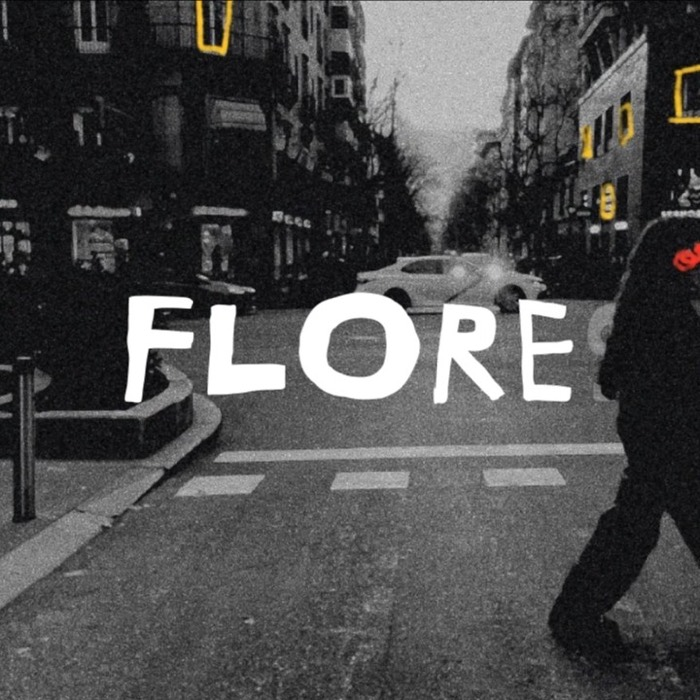
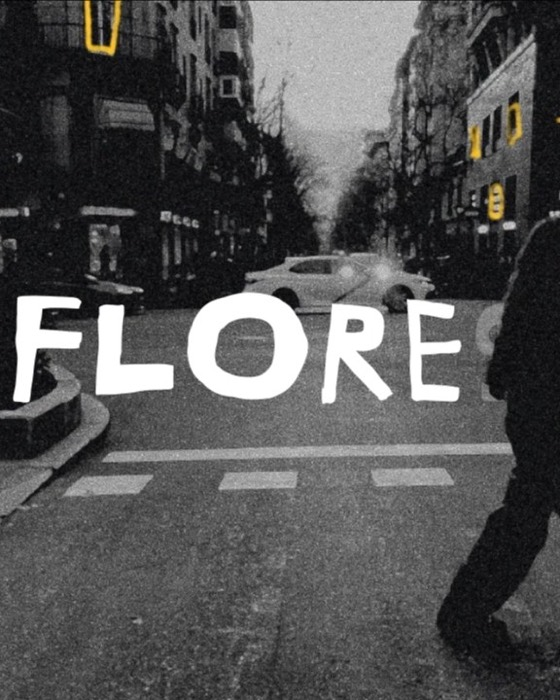
Flores: portada en 4:5 con la palabra más a la izquierda

diff --git a/lab.html b/lab.html
@@ -22,7 +22,7 @@
   <link rel="preconnect" href="https://freight.cargo.site">
   <link rel="stylesheet" href="https://unpkg.com/lenis@1.1.13/dist/lenis.css">
   <!-- ?v= obliga al navegador a descargar la versión nueva cuando cambia (súbelo en cada cambio) -->
-  <link rel="stylesheet" href="css/style.css?v=2026111302">
+  <link rel="stylesheet" href="css/style.css?v=2026111303">
 
   <!-- Tema: claro por defecto, o el que se haya elegido antes -->
   <script>
@@ -56,15 +56,15 @@
   <!-- ============ BARRA SUPERIOR ============ -->
   <header class="topbar">
     <div class="topbar__side">
-      <a class="logo" href="index.html?v=2026111302" aria-label="Ayleeeeta, volver al inicio">
+      <a class="logo" href="index.html?v=2026111303" aria-label="Ayleeeeta, volver al inicio">
         <span>A</span><span>y</span><span>l</span><span class="e">e</span><span class="e e-extra">e</span><span class="e e-extra">e</span><span class="e e-extra">e</span><span>t</span><span>a</span>
       </a>
     </div>
     <nav class="topnav tiny" aria-label="Páginas">
-      <a href="index.html?v=2026111302">Proyectos</a>
-      <a href="sobre-mi.html?v=2026111302">Sobre mí</a>
-      <a href="lab.html?v=2026111302" class="is-active" aria-current="page">Archivo</a>
-      <a href="index.html?v=2026111302#contacto">Contacto</a>
+      <a href="index.html?v=2026111303">Proyectos</a>
+      <a href="sobre-mi.html?v=2026111303">Sobre mí</a>
+      <a href="lab.html?v=2026111303" class="is-active" aria-current="page">Archivo</a>
+      <a href="index.html?v=2026111303#contacto">Contacto</a>
     </nav>
     <div class="topbar__right tiny" data-cursor-hide>
       <button class="round-btn" id="sound-toggle" type="button" aria-label="Sonido (próximamente)" aria-pressed="false">
@@ -80,10 +80,10 @@
   <!-- ============ MENÚ EN PASTILLA (móvil) ============ -->
   <nav class="pill" aria-label="Páginas" style="--i: 2">
     <span class="pill__indicator" aria-hidden="true"></span>
-    <a href="index.html?v=2026111302" class="pill__link">Proyectos</a>
-    <a href="sobre-mi.html?v=2026111302" class="pill__link">Sobre mí</a>
-    <a href="lab.html?v=2026111302" class="pill__link is-active">Archivo</a>
-    <a href="index.html?v=2026111302#contacto" class="pill__link">Contacto</a>
+    <a href="index.html?v=2026111303" class="pill__link">Proyectos</a>
+    <a href="sobre-mi.html?v=2026111303" class="pill__link">Sobre mí</a>
+    <a href="lab.html?v=2026111303" class="pill__link is-active">Archivo</a>
+    <a href="index.html?v=2026111303#contacto" class="pill__link">Contacto</a>
   </nav>
 
   <main class="lab-page">
@@ -106,8 +106,8 @@
   <script src="https://cdn.jsdelivr.net/npm/gsap@3.13.0/dist/SplitText.min.js"></script>
   <script src="https://unpkg.com/lenis@1.1.13/dist/lenis.min.js"></script>
 
-  <script src="js/data.js?v=2026111302"></script>
-  <script src="js/lab-data.js?v=2026111302"></script>
-  <script src="js/main.js?v=2026111302"></script>
+  <script src="js/data.js?v=2026111303"></script>
+  <script src="js/lab-data.js?v=2026111303"></script>
+  <script src="js/main.js?v=2026111303"></script>
 </body>
 </html>

diff --git a/index.html b/index.html
@@ -22,7 +22,7 @@
   <link rel="preconnect" href="https://freight.cargo.site">
   <link rel="stylesheet" href="https://unpkg.com/lenis@1.1.13/dist/lenis.css">
   <!-- ?v= obliga al navegador a descargar la versión nueva cuando cambia (súbelo en cada cambio) -->
-  <link rel="stylesheet" href="css/style.css?v=2026111302">
+  <link rel="stylesheet" href="css/style.css?v=2026111303">
 
   <!-- Tema: claro por defecto, o el que se haya elegido antes -->
   <script>
@@ -56,14 +56,14 @@
   <!-- ============ BARRA SUPERIOR ============ -->
   <header class="topbar">
     <div class="topbar__side">
-      <a class="logo" href="index.html?v=2026111302" aria-label="Ayleeeeta, volver al inicio">
+      <a class="logo" href="index.html?v=2026111303" aria-label="Ayleeeeta, volver al inicio">
         <span>A</span><span>y</span><span>l</span><span class="e">e</span><span class="e e-extra">e</span><span class="e e-extra">e</span><span class="e e-extra">e</span><span>t</span><span>a</span>
       </a>
     </div>
     <nav class="topnav tiny" aria-label="Páginas">
-      <a href="index.html?v=2026111302" class="is-active" aria-current="page">Proyectos</a>
-      <a href="sobre-mi.html?v=2026111302">Sobre mí</a>
-      <a href="lab.html?v=2026111302">Archivo</a>
+      <a href="index.html?v=2026111303" class="is-active" aria-current="page">Proyectos</a>
+      <a href="sobre-mi.html?v=2026111303">Sobre mí</a>
+      <a href="lab.html?v=2026111303">Archivo</a>
       <a href="#contacto">Contacto</a>
     </nav>
     <div class="topbar__right tiny" data-cursor-hide>
@@ -80,9 +80,9 @@
   <!-- ============ MENÚ EN PASTILLA (móvil) ============ -->
   <nav class="pill" aria-label="Páginas" style="--i: 0">
     <span class="pill__indicator" aria-hidden="true"></span>
-    <a href="index.html?v=2026111302" class="pill__link is-active">Proyectos</a>
-    <a href="sobre-mi.html?v=2026111302" class="pill__link">Sobre mí</a>
-    <a href="lab.html?v=2026111302" class="pill__link">Archivo</a>
+    <a href="index.html?v=2026111303" class="pill__link is-active">Proyectos</a>
+    <a href="sobre-mi.html?v=2026111303" class="pill__link">Sobre mí</a>
+    <a href="lab.html?v=2026111303" class="pill__link">Archivo</a>
     <a href="#contacto" class="pill__link">Contacto</a>
   </nav>
 
@@ -190,7 +190,7 @@
   <script src="https://unpkg.com/lenis@1.1.13/dist/lenis.min.js"></script>
   <script src="https://cdnjs.cloudflare.com/ajax/libs/matter-js/0.19.0/matter.min.js"></script>
 
-  <script src="js/data.js?v=2026111302"></script>
-  <script src="js/main.js?v=2026111302"></script>
+  <script src="js/data.js?v=2026111303"></script>
+  <script src="js/main.js?v=2026111303"></script>
 </body>
 </html>

diff --git a/sobre-mi.html b/sobre-mi.html
@@ -22,7 +22,7 @@
   <link rel="preconnect" href="https://freight.cargo.site">
   <link rel="stylesheet" href="https://unpkg.com/lenis@1.1.13/dist/lenis.css">
   <!-- ?v= obliga al navegador a descargar la versión nueva cuando cambia (súbelo en cada cambio) -->
-  <link rel="stylesheet" href="css/style.css?v=2026111302">
+  <link rel="stylesheet" href="css/style.css?v=2026111303">
 
   <!-- Tema: claro por defecto, o el que se haya elegido antes -->
   <script>
@@ -56,14 +56,14 @@
   <!-- ============ BARRA SUPERIOR ============ -->
   <header class="topbar">
     <div class="topbar__side">
-      <a class="logo" href="index.html?v=2026111302" aria-label="Ayleeeeta, volver al inicio">
+      <a class="logo" href="index.html?v=2026111303" aria-label="Ayleeeeta, volver al inicio">
         <span>A</span><span>y</span><span>l</span><span class="e">e</span><span class="e e-extra">e</span><span class="e e-extra">e</span><span class="e e-extra">e</span><span>t</span><span>a</span>
       </a>
     </div>
     <nav class="topnav tiny" aria-label="Páginas">
-      <a href="index.html?v=2026111302">Proyectos</a>
-      <a href="sobre-mi.html?v=2026111302" class="is-active" aria-current="page">Sobre mí</a>
-      <a href="lab.html?v=2026111302">Archivo</a>
+      <a href="index.html?v=2026111303">Proyectos</a>
+      <a href="sobre-mi.html?v=2026111303" class="is-active" aria-current="page">Sobre mí</a>
+      <a href="lab.html?v=2026111303">Archivo</a>
       <a href="#contacto">Contacto</a>
     </nav>
     <div class="topbar__right tiny" data-cursor-hide>
@@ -80,9 +80,9 @@
   <!-- ============ MENÚ EN PASTILLA (móvil) ============ -->
   <nav class="pill" aria-label="Páginas" style="--i: 1">
     <span class="pill__indicator" aria-hidden="true"></span>
-    <a href="index.html?v=2026111302" class="pill__link">Proyectos</a>
-    <a href="sobre-mi.html?v=2026111302" class="pill__link is-active">Sobre mí</a>
-    <a href="lab.html?v=2026111302" class="pill__link">Archivo</a>
+    <a href="index.html?v=2026111303" class="pill__link">Proyectos</a>
+    <a href="sobre-mi.html?v=2026111303" class="pill__link is-active">Sobre mí</a>
+    <a href="lab.html?v=2026111303" class="pill__link">Archivo</a>
     <a href="#contacto" class="pill__link">Contacto</a>
   </nav>
 
@@ -151,7 +151,7 @@
   <script src="https://cdn.jsdelivr.net/npm/gsap@3.13.0/dist/SplitText.min.js"></script>
   <script src="https://unpkg.com/lenis@1.1.13/dist/lenis.min.js"></script>
 
-  <script src="js/data.js?v=2026111302"></script>
-  <script src="js/main.js?v=2026111302"></script>
+  <script src="js/data.js?v=2026111303"></script>
+  <script src="js/main.js?v=2026111303"></script>
 </body>
 </html>

diff --git a/README.md b/README.md
@@ -66,7 +66,7 @@ El botón "Descargar CV" de Sobre mí descarga `assets/cv/CV_AylaCano.pdf`. Se g
 
 ## Si no ves los cambios online
 
-El navegador guarda copias de la web. Los archivos y los enlaces entre páginas llevan `?v=2026111302`: cada vez que subas cambios, busca y reemplaza ese número por uno nuevo en las 3 páginas (`index.html`, `lab.html`, `sobre-mi.html`) y todo el mundo verá la versión nueva. Para comprobarlo tú, recarga con **Cmd + Shift + R**.
+El navegador guarda copias de la web. Los archivos y los enlaces entre páginas llevan `?v=2026111303`: cada vez que subas cambios, busca y reemplaza ese número por uno nuevo en las 3 páginas (`index.html`, `lab.html`, `sobre-mi.html`) y todo el mundo verá la versión nueva. Para comprobarlo tú, recarga con **Cmd + Shift + R**.
 
 ## Publicar en GitHub Pages
 
